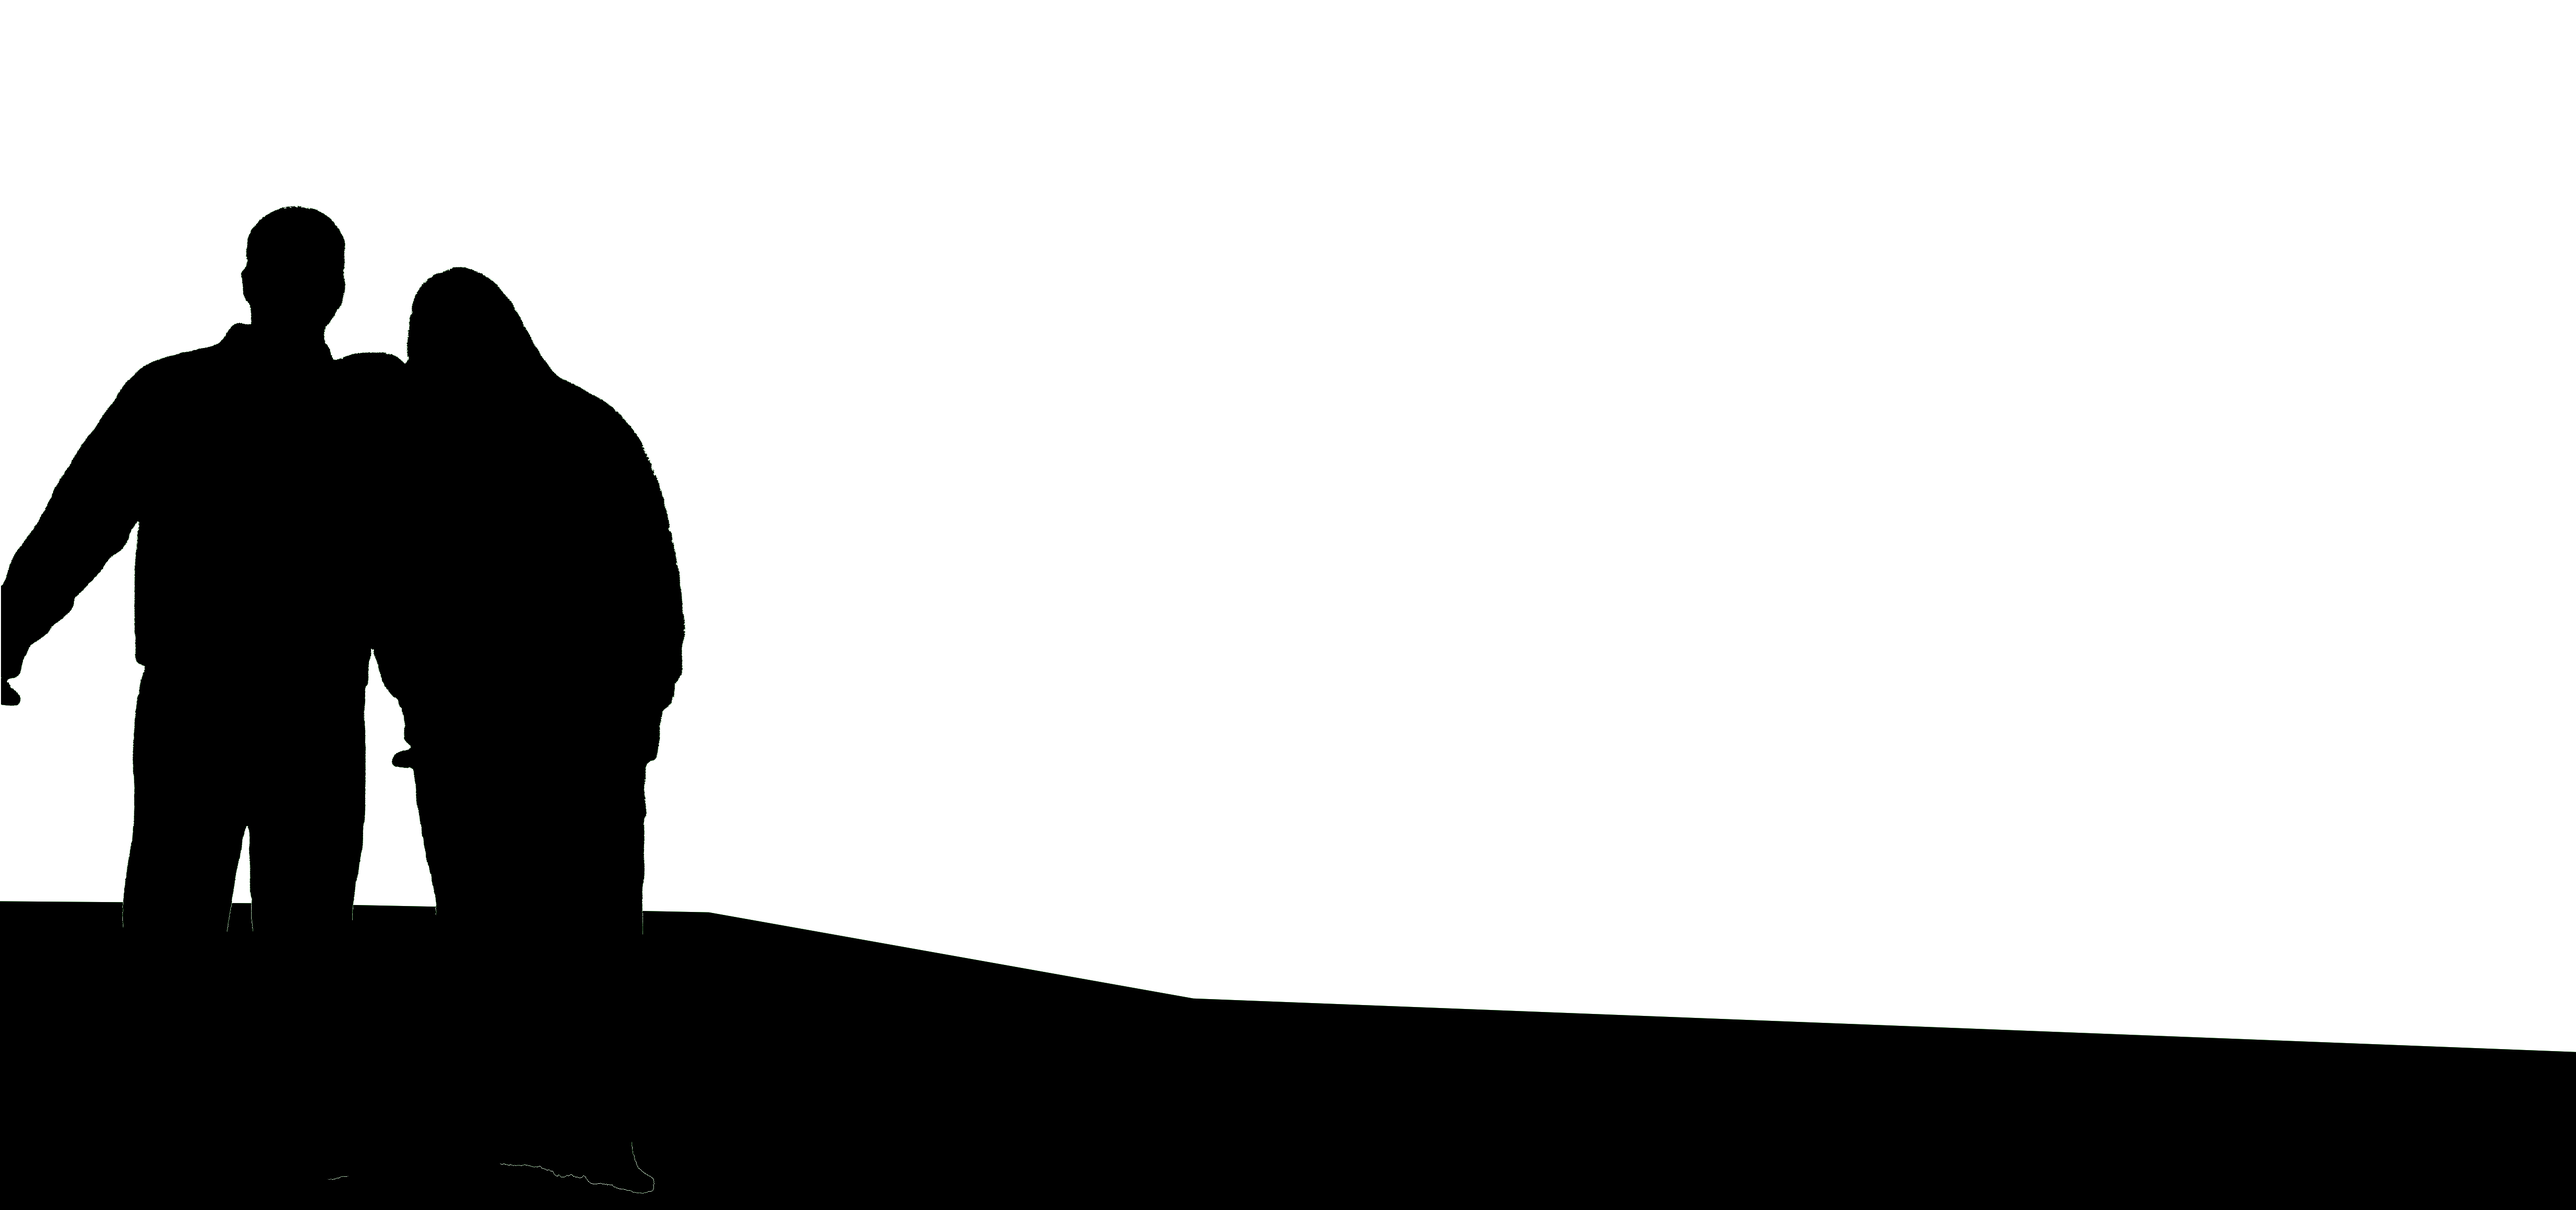
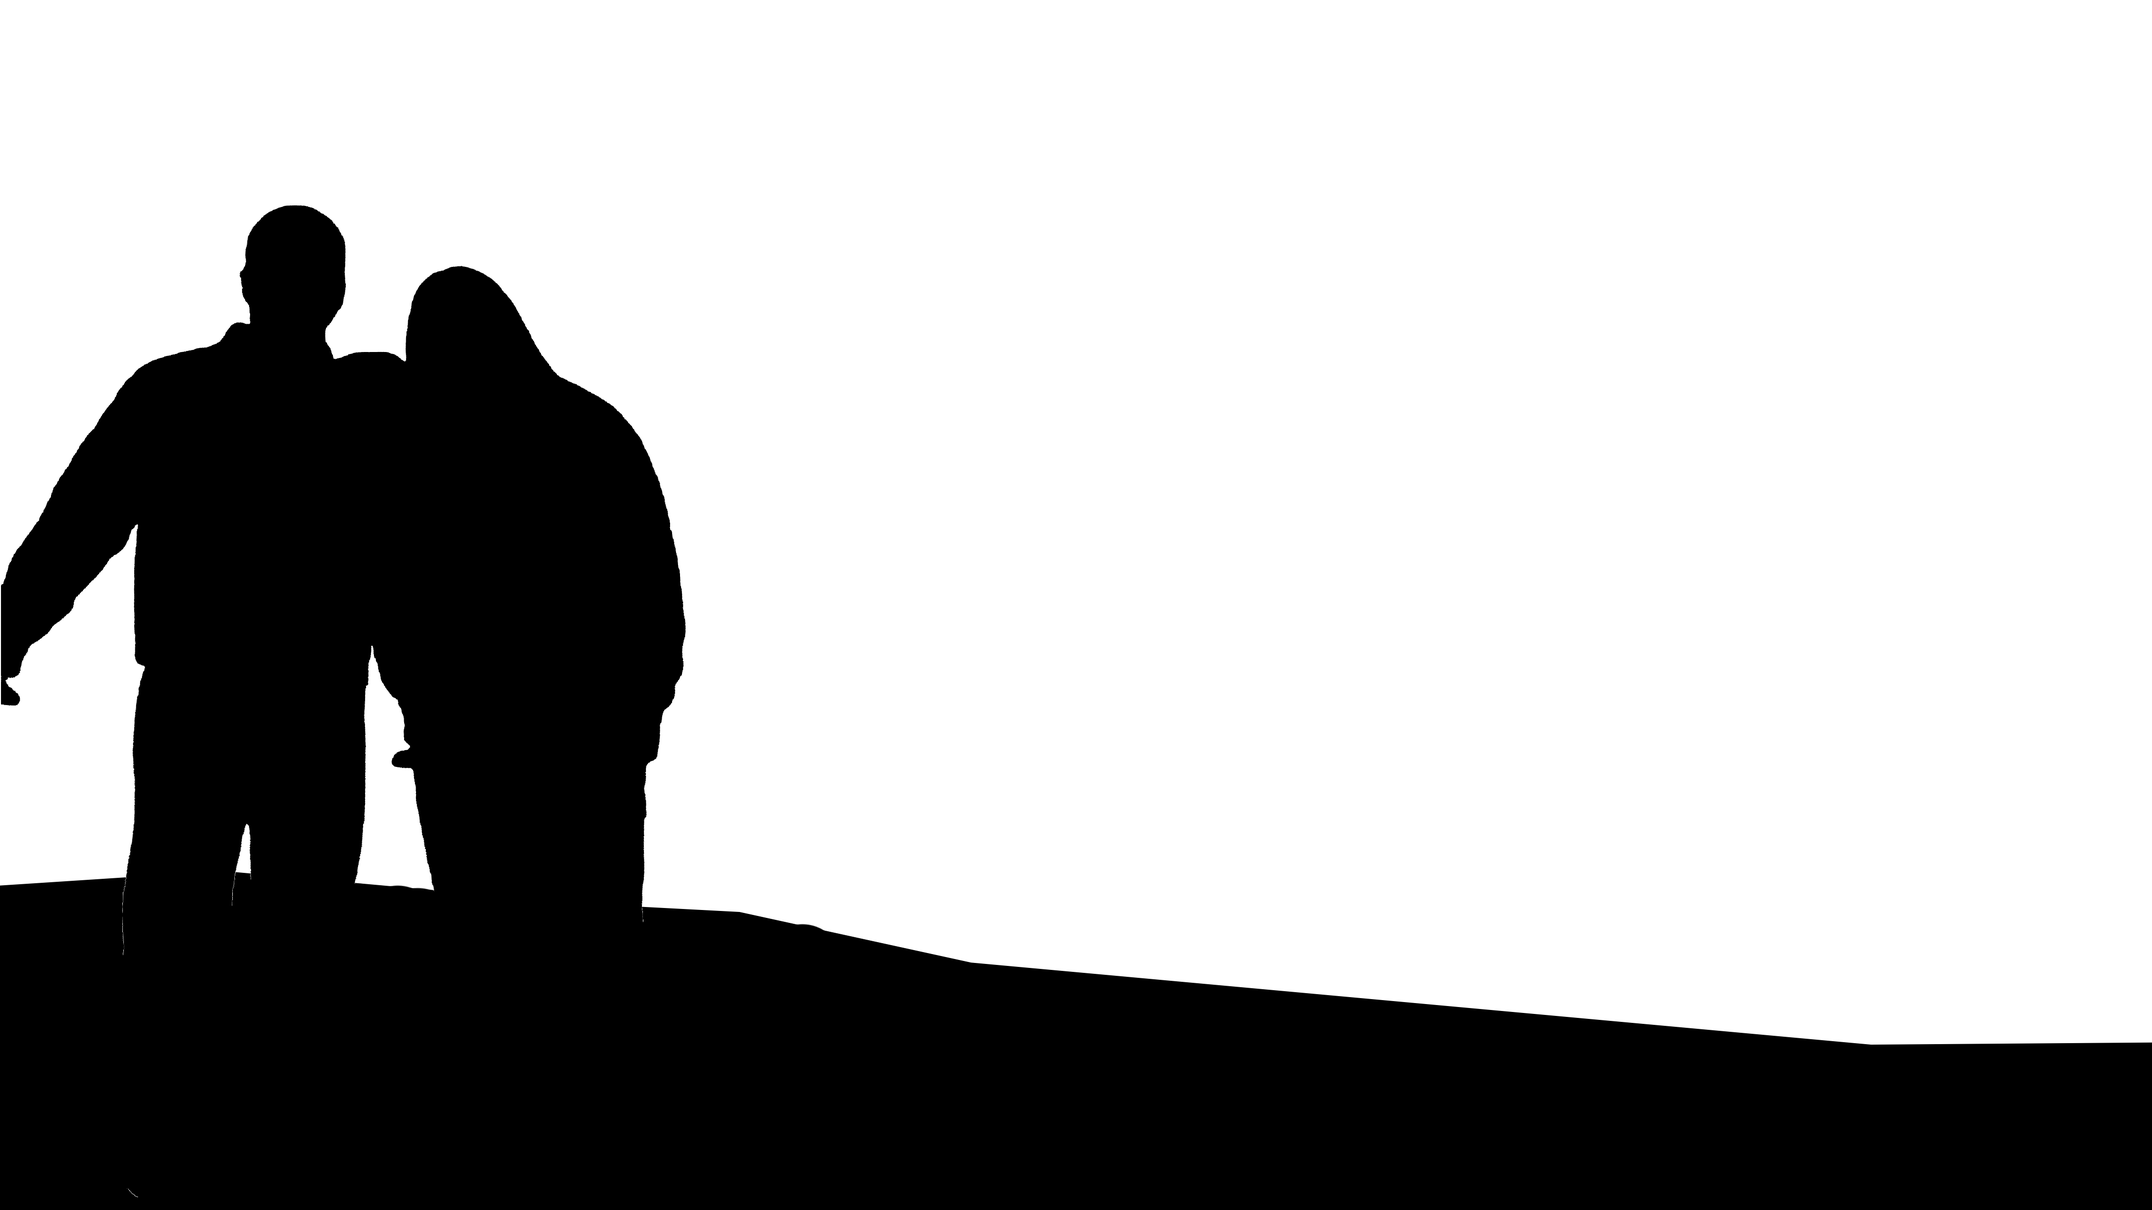
initial commit

diff --git a/components/ThermalGlitchImage.jsx b/components/ThermalGlitchImage.jsx
@@ -25,6 +25,8 @@ export default function ThermalGlitchImage({
   negativeSaturate = "230%",
   brightness = 1.25,
   contrast = 1.2,
+  showThermal = true,
+  showNegative = true,
 }) {
   const [isActive, setIsActive] = useState(false);
 
@@ -81,20 +83,24 @@ export default function ThermalGlitchImage({
         className={`${className}`.trim()}
         style={dynamicStyles}
       />
-      <img
-        src={src}
-        alt=""
-        aria-hidden="true"
-        className={`${className} ${styles.imageLayer} ${styles.thermal} ${activeClass}`.trim()}
-        style={dynamicStyles}
-      />
-      <img
-        src={src}
-        alt=""
-        aria-hidden="true"
-        className={`${className} ${styles.imageLayer} ${styles.negative} ${activeClass}`.trim()}
-        style={dynamicStyles}
-      />
+      {showThermal && (
+        <img
+          src={src}
+          alt=""
+          aria-hidden="true"
+          className={`${className} ${styles.imageLayer} ${styles.thermal} ${activeClass}`.trim()}
+          style={dynamicStyles}
+        />
+      )}
+      {showNegative && (
+        <img
+          src={src}
+          alt=""
+          aria-hidden="true"
+          className={`${className} ${styles.imageLayer} ${styles.negative} ${activeClass}`.trim()}
+          style={dynamicStyles}
+        />
+      )}
     </>
   );
 }

diff --git a/app/page.jsx b/app/page.jsx
@@ -1160,6 +1160,8 @@ export default function Home() {
                 negativeSaturate="var(--butter-negative-saturate, 230%)"
                 brightness="var(--butter-glitch-brightness, 1.25)"
                 contrast="var(--butter-glitch-contrast, 1.2)"
+                showThermal={false}
+                showNegative={false}
               />
             </div>
             <div className="scene-image-sticky">
